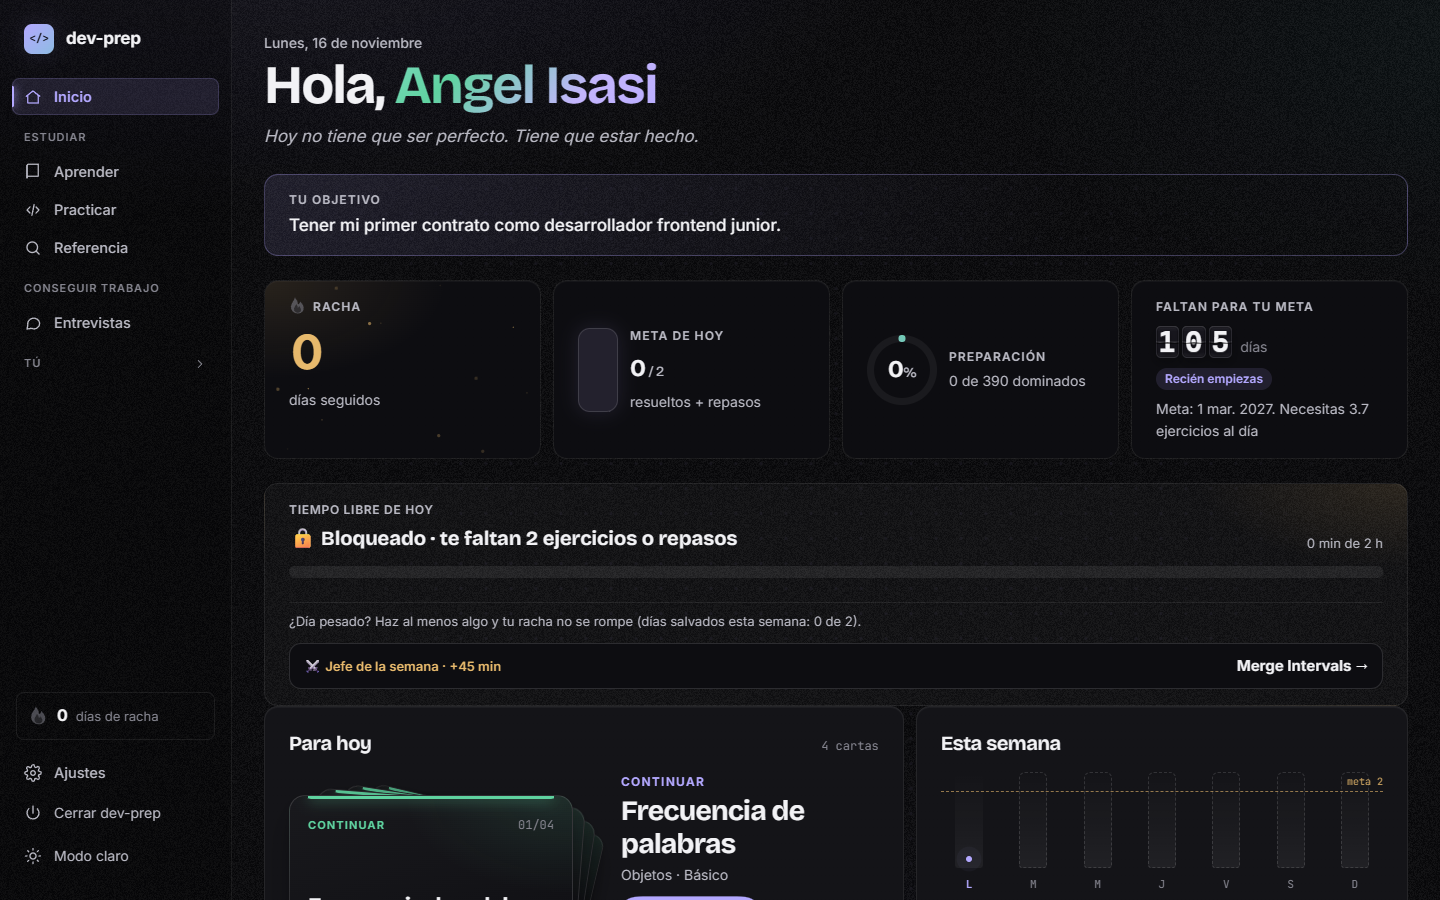
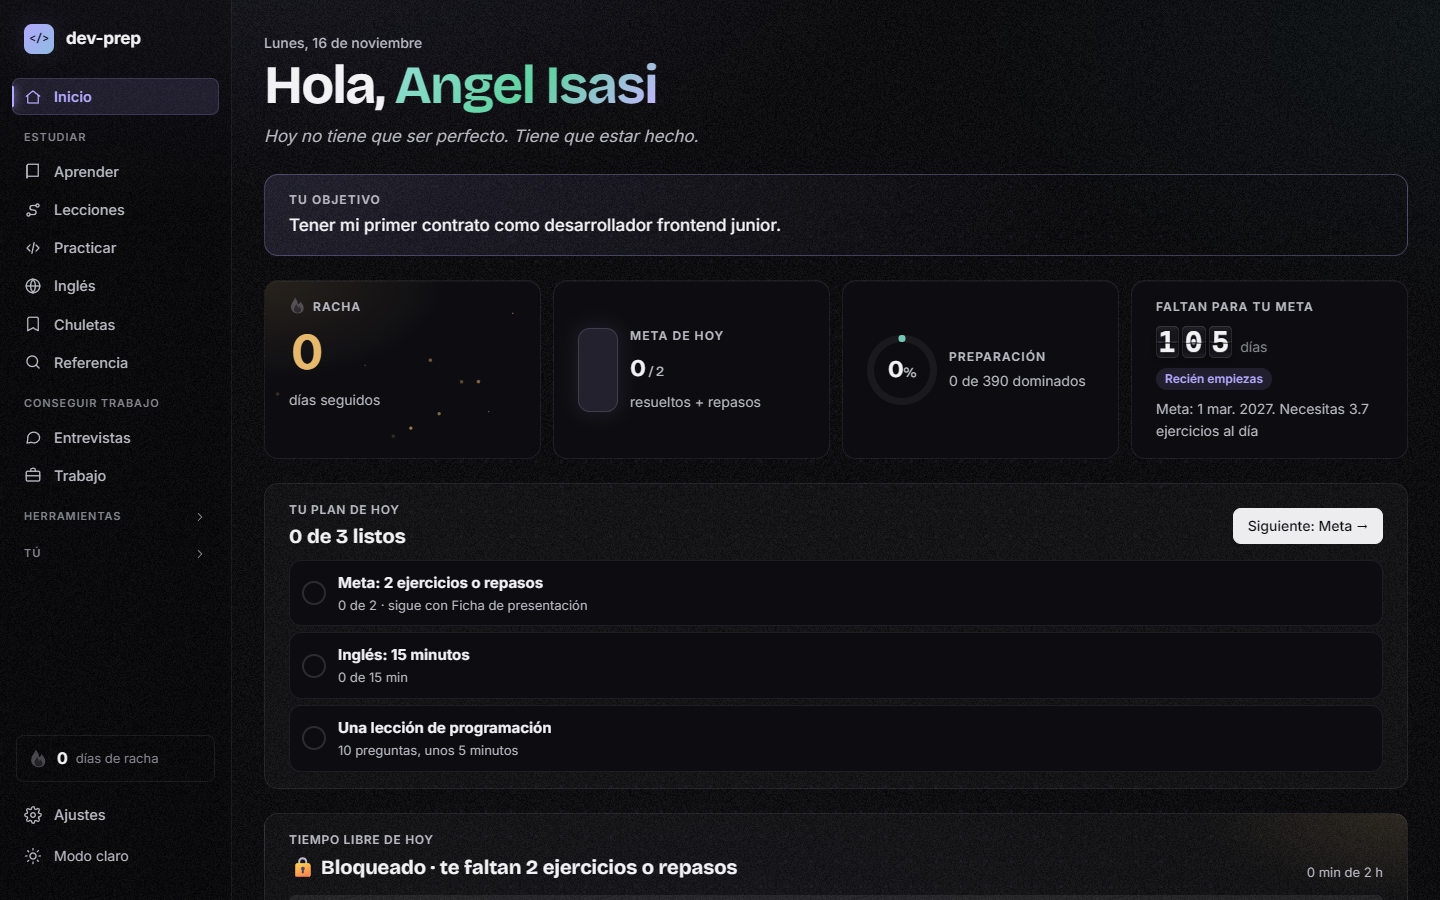
Capturas desde la versión web completa: inicio, tests en vivo, lecciones, inglés, conseguir trabajo y celular

diff --git a/README.md b/README.md
@@ -12,9 +12,13 @@ Programas en VS Code, guardas con `Ctrl + S` y la app muestra al instante qué t
 
 ![Tests en vivo: guardas en VS Code y la app muestra qué casos pasan, con lo esperado y lo recibido](docs/capturas/tests-en-vivo.png)
 
-| Inicio | Practicar | Celular |
+| Inicio | Lecciones | Inglés |
 |---|---|---|
-| ![Inicio con racha, meta del día, preparación y cuenta regresiva](docs/capturas/inicio.png) | ![Practicar organizado por áreas y colecciones](docs/capturas/practicar.png) | ![Versión celular con el plan de hoy y lecciones](docs/capturas/movil.png) |
+| ![Inicio con objetivo, racha, meta del día, preparación, cuenta regresiva y plan de hoy](docs/capturas/inicio.png) | ![Camino de lecciones por unidades](docs/capturas/lecciones.png) | ![Inglés con rutina diaria, inmersión y prueba de nivel](docs/capturas/ingles.png) |
+
+| Conseguir trabajo | Celular |
+|---|---|
+| ![Ofertas reales ordenadas por cuánto te convienen, con sus razones](docs/capturas/trabajo.png) | ![Versión celular con el plan de hoy y la lección de la unidad](docs/capturas/movil.png) |
 
 ## In English
 
